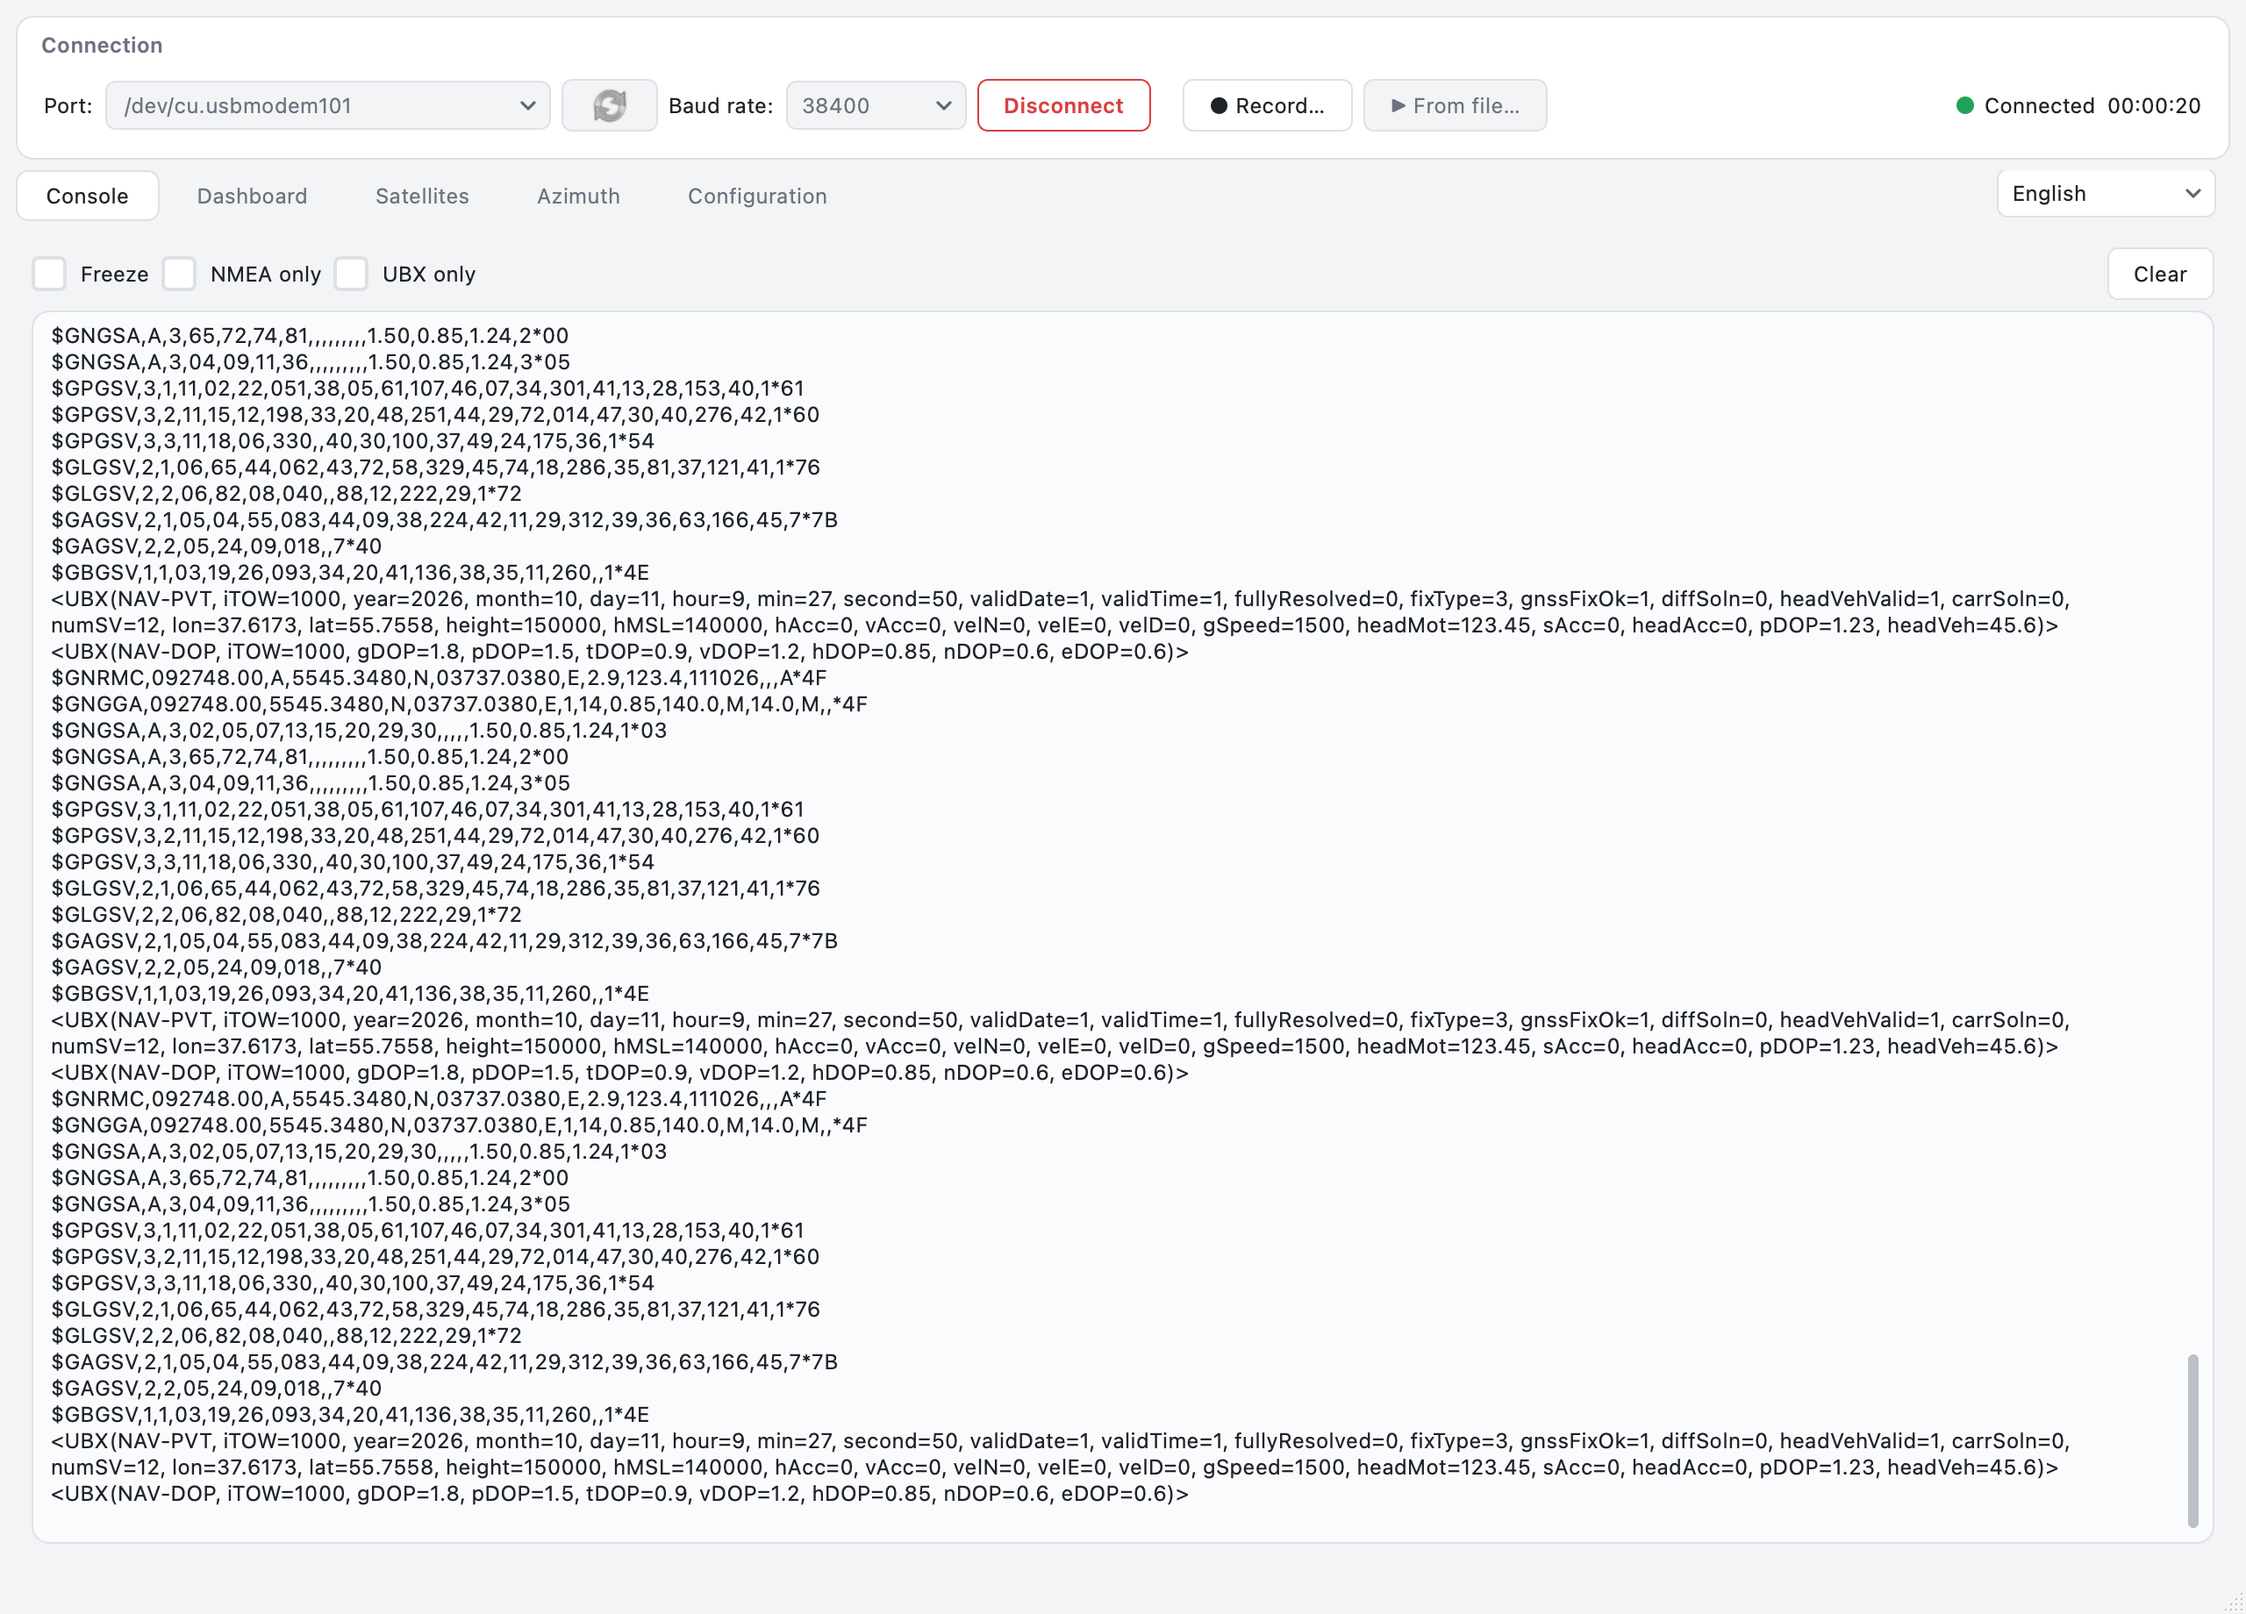
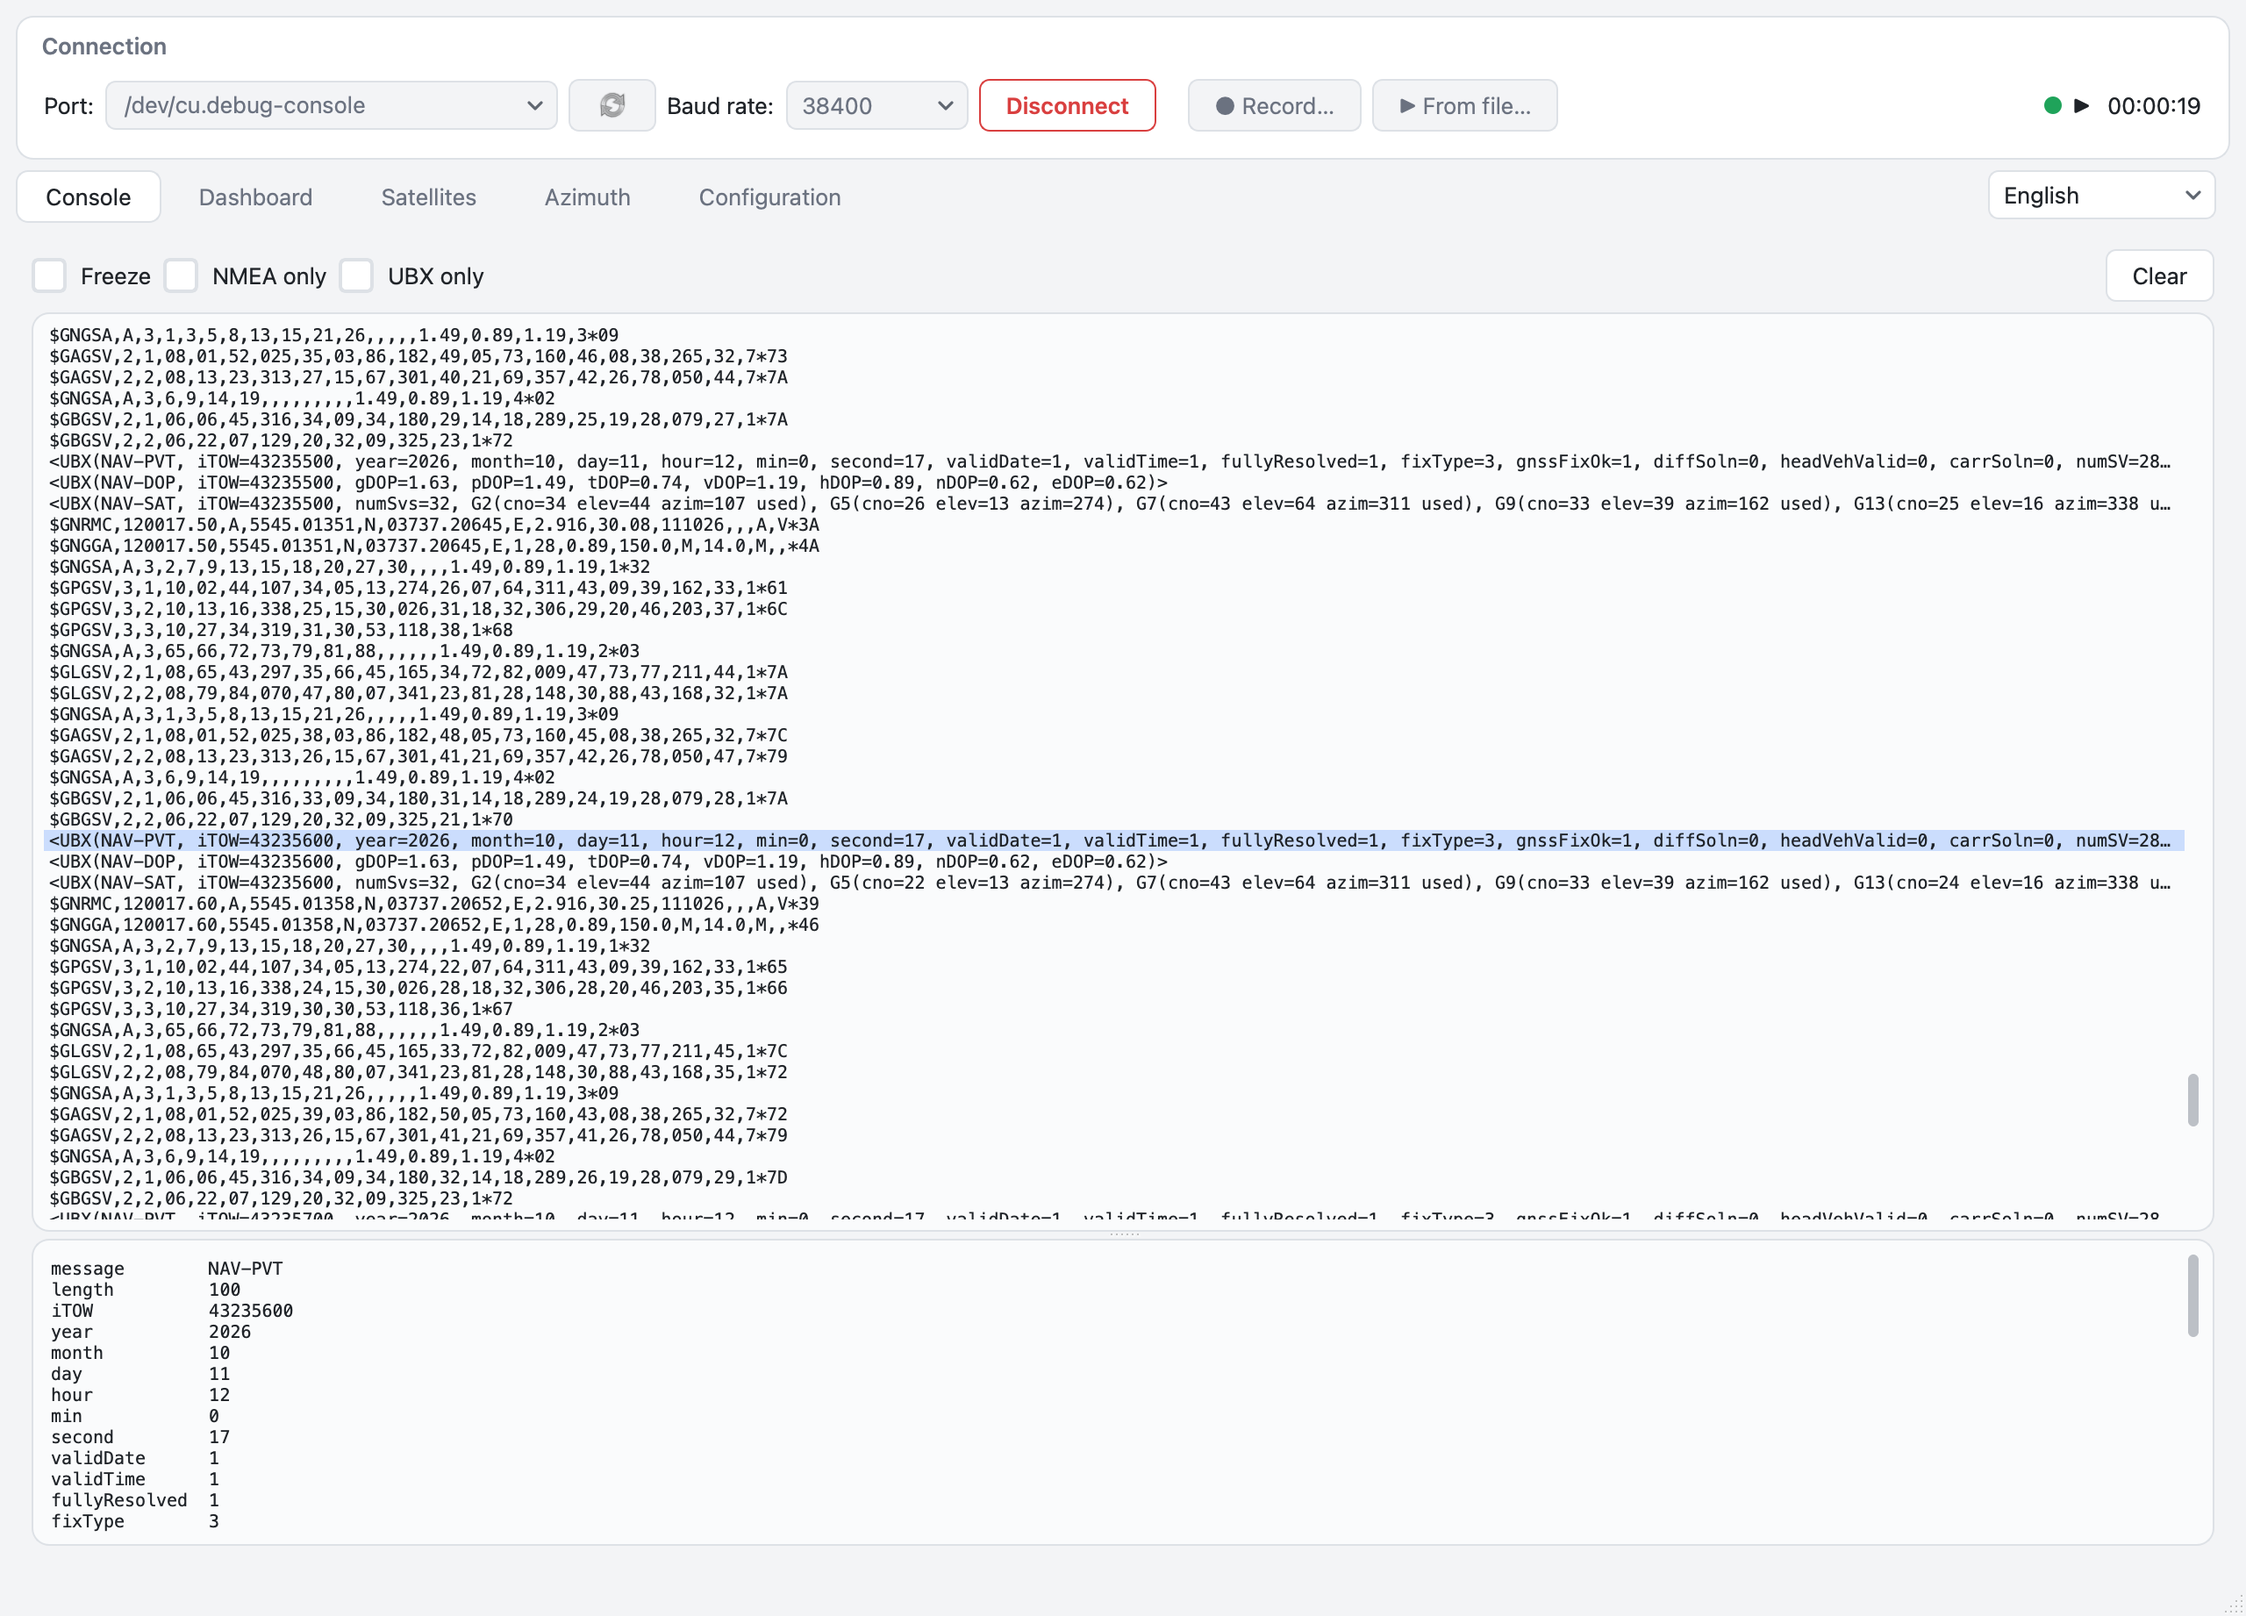
Docs: new console screenshot, phase 4 CI steps done

diff --git a/docs/roadmap.md b/docs/roadmap.md
@@ -122,13 +122,13 @@ Measured after phase 3 with `--measure 20,80`, the window visible; repeated runs
 
 At 250 ms the console got more expensive: its cost follows the number of refreshes, and the old 250 ms limit on a 100 ms timer had in fact refreshed it every 300 ms.
 
-## Phase 4 — CI and delivery
+## Phase 4 — CI and delivery (4.1–4.3 done)
 
 | # | Step | Done when | Size |
 |---|---|---|---|
-| 4.1 | Split the Linux job into parallel jobs: format, sanitizers with tests, clang-tidy, fuzzing | Wall time of a CI run is set by the slowest job (about 4 minutes instead of 10) | S |
-| 4.2 | `ccache` for the sanitizer and fuzzer builds | A rebuild without source changes takes under a minute | S |
-| 4.3 | Fuzz for 30 s on branches, 120 s on `main` and tags | Configured in the workflow | S |
+| 4.1 | ✅ Split the Linux job into parallel jobs: format, sanitizers with tests, clang-tidy (itself split into core, UI and tests; it only generates the moc files instead of compiling), fuzzing. Tool installation with timeouts and retries is a shared action | The slowest job sets the run time: **about 4 minutes instead of 10** (longest job 3m53s) — **met** | S |
+| 4.2 | ✅ `ccache` for the sanitizer and fuzzer builds (`.ccache` kept between runs by `actions/cache`) | Sanitizer job 2m40s → 1m15s–1m27s with a warm cache; the build step itself takes well under a minute — **met** | S |
+| 4.3 | ✅ Fuzz for 30 s on branches, 120 s on `main` and tags | Configured in the workflow — **met** | S |
 | 4.4 | macOS: sign with a Developer ID certificate and notarize the DMG | The app opens on a clean Mac without a Gatekeeper warning | M |
 | 4.5 | Windows: an installer (CPack with WiX or NSIS) next to the ZIP, with a Start menu entry | Installs and uninstalls cleanly on a clean Windows | M |
 

diff --git a/README.md b/README.md
@@ -39,7 +39,7 @@ A lightweight, cross-platform desktop alternative to u-center for working with u
     <td><img src="docs/images/configuration.png" alt="Configuration tab"></td>
   </tr>
   <tr>
-    <td><b>Console</b> — the live stream: NMEA sentences as received and decoded UBX messages, with freeze and NMEA/UBX filters.</td>
+    <td><b>Console</b> — the live stream: NMEA sentences as received and decoded UBX messages, 50 000 kept, with freeze and NMEA/UBX filters; the fields of the selected message are shown below.</td>
     <td><b>Configuration</b> — navigation rate, constellations and USB message output through the M9 Configuration Database; every change is confirmed by ACK and read back.</td>
   </tr>
 </table>
